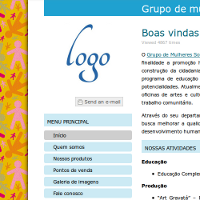
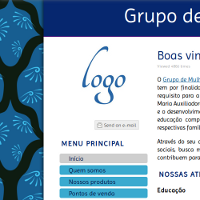
Update distribution to cirandas responsive

diff --git a/distribution/stylesheets/style.scss b/distribution/stylesheets/style.scss
@@ -1,3 +1,128 @@
-@import '../../cirandas/stylesheets/cirandas';
-@import '../../cirandas/stylesheets/small';
+@import 'variables';
+@import 'mixins';
+@import url(https://fonts.googleapis.com/css?family=Imprima:regular,bold&subset=Latin);
+/*@import 'stylesheets/coral';*/
+@import '../../cirandas-responsive/style';
 
+body {
+  background: white;
+}
+#wrap-1 {
+  width: 100%;
+  background-color: $bg;
+}
+
+#content-inner {
+  min-height: 100vh;
+  padding-top: 0;
+}
+.box-container-2 {
+  .consumers-coop-plugin_consumers-coop-menu-block, .block {
+    background-color: $bg;
+  }
+
+  background-color: $bg;
+  overflow-y: auto;
+  z-index: 2000;
+  bottom: 0;
+}
+
+.consumers-coop-plugin_consumers-coop-menu-block {
+  .profile-picture {
+    height: 70px;
+    display: table;
+    margin-bottom: 20px;
+
+    .picture {
+      margin-right: 10px;
+      width: 65px;
+      height: 65px;
+      border-radius: 50%;
+      -moz-border-radius: 50%;
+      -webkit-border-radius: 50%;
+      border: 2px solid $bg;
+      background-repeat: no-repeat;
+      background-position: center center;
+      background-size: auto 100%;
+      display: inline-block;
+    }
+    .name {
+      display: table-cell;
+      vertical-align: middle;
+
+    }
+
+    &:after {
+      display: table;
+      content: " ";
+      clear: both;
+    }
+  }
+  .menu-buttons-container {
+    .menu-button {
+      display: block;
+      text-transform: uppercase;
+      color: $grey;
+      font-size: 16px;
+      background-repeat: no-repeat;
+      background-size: auto 90%;
+      padding-left: 30px;
+      margin-bottom: 10px;
+
+      &.orders { background-image: url(/plugins/consumers_coop/images/pedidos.png); }
+      &.orders_cycles { background-image: url(/plugins/consumers_coop/images/feiras_virtuais.png); }
+      &.volunteering { background-image: url(/plugins/consumers_coop/images/voluntariado.png); }
+      &.products { background-image: url(/plugins/consumers_coop/images/produtos.png); }
+      &.suppliers { background-image: url(/plugins/consumers_coop/images/fornecedores.png); }
+      &.consumers { background-image: url(/plugins/consumers_coop/images/consumidores.png); }
+      &.settings { background-image: url(/plugins/consumers_coop/images/configuracao.png); }
+    }
+    hr {
+      width: 100%;
+      border-bottom: 1px solid #CACACA;
+      margin-top: 10px;
+      margin-bottom: 10px;
+    }
+  }
+}
+
+/*
+ * off canvas sidebar
+ * --------------------------------------------------
+ */
+
+.controller-consumers_coop_plugin_product, .action-consumers_coop_plugin_order-edit {
+
+  #wrap-1 {
+    width: 1090px;
+  }
+
+  @include offcanvas;
+
+  .navbar-toggle.sidebar-toggle {
+    display: block;
+    z-index: 3000;
+  }
+
+  .box-container-1 {
+    width: 100%;
+    left: 0;
+  }
+}
+
+@media screen and (max-width: 767px) {
+  @include offcanvas;
+}
+
+@media screen and (min-width: 768px) {
+  #theme-footer {
+    margin-left: 25%;
+
+    .container {
+      width: 100%;
+    }
+    .footer-fbes {
+      padding-left: 40px;
+    }
+  }
+}

diff --git a/distribution/stylesheets/_variables.scss b/distribution/stylesheets/_variables.scss
@@ -1,0 +1,32 @@
+$theme-name: "distribution";
+$content-title: #10999C;
+$page-title: #FFF;
+$page-title-bg: #5A339E;
+$page-title-border-bottom: #417;
+$link-list-block: #FFF;
+$link-list-block-bg: #10999C;
+$link-this-page: #222;
+$link-this-page-bg: #CECECE;
+$links: #5A339E;
+$links-hover: #021848;
+$product-price: #0194C7;
+
+$catalog-details-bg: $link-list-block-bg;
+$catalog-details: $link-list-block;
+$catalog-details-bg-hover: $page-title-bg;
+$catalog-details-hover: $page-title;
+
+$block-title: $content-title;
+$profile-footer: #000;
+$profile-footer-bg: #9A73DE;
+$profile-footer-border-top: #339;
+$main-block-title: $content-title;
+$blog-post-title: $content-title;
+$body-bg-image-url: "";
+
+$top-menu-bg: #BBCC56;
+$top-menu-color: black;
+$top-menu-hover-color: #06276f;
+$top-menu-hover-color-bg: #ddd;
+$bg: #ECECEC;
+$grey: #797979;

diff --git a/distribution/stylesheets/_mixins.scss b/distribution/stylesheets/_mixins.scss
@@ -1,0 +1,39 @@
+@mixin offcanvas {
+	.box-container-2 {
+		position: fixed;
+  	top: 0;
+  	right: 100%;
+
+  	-webkit-transition: all 0.25s ease-out;
+  	-moz-transition: all 0.25s ease-out;
+  	transition: all 0.25s ease-out;
+
+  	&.active {
+    	right: 0%;
+  	}
+
+  	.consumers-coop-plugin_consumers-coop-menu-block {
+    	box-shadow: none;
+    	border: 1px solid $bg;
+  	}
+  }
+  .sidebar-toggle {
+    position: fixed;
+    top: 55px;
+    right: 0;
+    z-index: 3000;
+    background-color: $bg;
+    .icon-bar { background-color: $grey; }
+
+    &:hover {
+      background-color: $grey;
+      .icon-bar {
+        background-color: $bg;
+      }
+    }
+  }
+
+	#theme-footer {
+    margin-left: 0;
+	}
+}

diff --git a/distribution/theme.js b/distribution/theme.js
@@ -1,1 +1,10 @@
-../cirandas/theme.js
+$(function() {
+
+  // enable sidebar open/close
+	$button = $(".sidebar-toggle");
+	$content = $button.attr('data-target');
+	$(".sidebar-toggle").click(function(){
+		console.log("chamou");
+		$($content).toggleClass('active');
+	});
+});

diff --git a/distribution/style.scss b/distribution/style.scss
@@ -1,2 +1,1 @@
 @import 'stylesheets/style';
-
